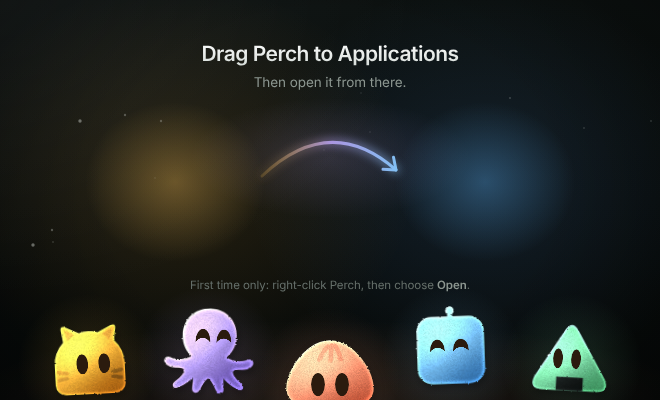
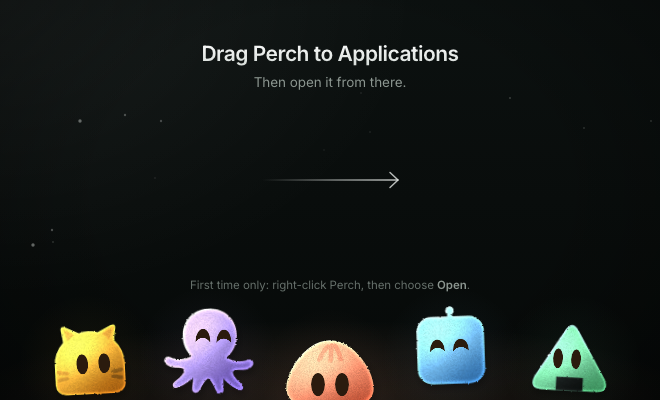
Install window: thin straight arrow, no halos, wait for Finder to save the layout

Changed region(s): [[0.1212, 0.27, 0.8788, 0.66]]

diff --git a/ui/install/background.html b/ui/install/background.html
@@ -3,7 +3,7 @@
 <title>Perch disk image</title>
 <!-- The picture behind the icons in the Perch.dmg window (660 x 400 points). Finder puts the Perch icon on the left and the
      Applications folder on the right (scripts/make-dmg.sh places them at 175,180 and 485,180); this draws everything else:
-     the words, the light behind both icons, an arrow that arcs from one to the other, and the
+     the words, the light behind both icons, a thin line with a head between them, and the
      crowd of characters, the real ones (app.js draws them, coat and eyes), peeking up from the bottom edge.
      The design page shows it in a Finder window; scripts/render-dmg-background.mjs renders it to Resources/dmg/background.png and @2x. -->
 <link rel="stylesheet" href="../dist/ui.css">
@@ -11,15 +11,10 @@
 @font-face { font-family: Inter; font-weight: 100 900; src: url(../dist/fonts/inter-latin-wght-normal.woff2) format('woff2'); }
 html, body { margin: 0; width: 660px; height: 400px; overflow: hidden; }
 body { position: relative; font-family: Inter, -apple-system, system-ui, sans-serif; font-feature-settings: "cv11", "ss03"; -webkit-font-smoothing: antialiased; color: #EDF1EE; }
-/* the night, and the light in it: a pool of each icon's colour, a trail of both between them, a warm horizon under the crowd */
+/* the night: a soft light from the top left and a faint warm horizon under the crowd */
 #bg { position: absolute; inset: 0; background:
   radial-gradient(ellipse 560px 420px at 50% 46%, rgba(0,0,0,0) 40%, rgba(0,0,0,.55) 100%),
   radial-gradient(ellipse 420px 300px at 0% 0%, rgba(255,255,255,.055), rgba(255,255,255,0) 100%),
-  radial-gradient(ellipse 90px 80px at 175px 182px, rgba(255,198,90,.30), rgba(255,198,90,0) 100%),
-  radial-gradient(ellipse 240px 200px at 175px 182px, rgba(245,170,50,.13), rgba(245,170,50,0) 100%),
-  radial-gradient(ellipse 90px 80px at 485px 182px, rgba(96,186,255,.30), rgba(96,186,255,0) 100%),
-  radial-gradient(ellipse 240px 200px at 485px 182px, rgba(90,160,255,.13), rgba(90,160,255,0) 100%),
-  radial-gradient(ellipse 140px 60px at 330px 158px, rgba(185,162,245,.16), rgba(185,162,245,0) 100%),
   radial-gradient(ellipse 360px 80px at 50% 100%, rgba(255,170,130,.14), rgba(255,170,130,0) 100%),
   linear-gradient(#0C1110, #060908); }
 #scene { display: none; }
@@ -38,13 +33,11 @@ svg.fx { position: absolute; left: 0; top: 0; overflow: visible; }
 <div id="scene"></div>
 <svg class="fx" width="660" height="400" viewBox="0 0 660 400" fill="none" aria-hidden="true">
   <defs>
-    <linearGradient id="trail" x1="258" x2="404" gradientUnits="userSpaceOnUse"><stop offset="0" stop-color="#F5B83D" stop-opacity=".15"/><stop offset=".5" stop-color="#B9A2F5" stop-opacity=".85"/><stop offset="1" stop-color="#7DC4F5"/></linearGradient>
-    <filter id="blur" x="-30%" y="-80%" width="160%" height="260%"><feGaussianBlur stdDeviation="5"/></filter>
+    <linearGradient id="trail" x1="262" x2="398" gradientUnits="userSpaceOnUse"><stop offset="0" stop-color="#EDF1EE" stop-opacity="0"/><stop offset=".55" stop-color="#EDF1EE" stop-opacity=".5"/><stop offset="1" stop-color="#EDF1EE" stop-opacity=".78"/></linearGradient>
   </defs>
   <g id="sparks" fill="#EDF1EE"></g>
-  <g stroke="url(#trail)" stroke-width="3" stroke-linecap="round" stroke-linejoin="round">
-    <g filter="url(#blur)" stroke-width="6" opacity=".7"><path d="M262 176Q330 112 396 170"/></g>
-    <path d="M262 176Q330 112 396 170"/><path d="M383 169.3L396 170L393.5 157.2"/>
+  <g stroke="url(#trail)" stroke-width="1.5" stroke-linecap="round" stroke-linejoin="round">
+    <path d="M262 180H398"/><path d="M390 172.5L398 180L390 187.5"/>
   </g>
 </svg>
 <h1>Drag Perch to Applications</h1>
@@ -59,7 +52,7 @@ var CREW = [['ears', '#F5B83D', 88, 318, 84, 'awake', [5, -3], -3], ['octo', '#B
             ['tile', '#7DC4F5', 452, 306, 90, 'happy', [-4, -4], -2], ['peak', '#7FD9A8', 572, 318, 84, 'awake', [-5, -3], 3]];
 document.getElementById('crew').innerHTML = CREW.map(function (c) {
   var x = c[2], y = c[3], z = c[4];
-  return '<div class="pal" style="left:' + x + 'px;top:' + (y + z * .55) + 'px;background:radial-gradient(circle,' + c[1] + '28' + ' 0%,' + c[1] + '00 66%)"></div>' +
+  return '<div class="pal" style="left:' + x + 'px;top:' + (y + z * .55) + 'px;background:radial-gradient(circle,' + c[1] + '0F' + ' 0%,' + c[1] + '00 66%)"></div>' +
     '<div class="cr-slot" style="left:' + (x - z / 2) + 'px;top:' + y + 'px;--cr:' + c[1] + ';--gx:' + c[6][0] + 'px;--gy:' + c[6][1] + 'px;transform:rotate(' + c[7] + 'deg)">' + window.perchDev.character(c[0], z, c[5]) + '</div>';
 }).join('');
 /* a few specks of light, always the same ones */

diff --git a/ui/design.html b/ui/design.html
@@ -446,7 +446,7 @@ h2{font:600 15px/1.2 Inter,sans-serif;letter-spacing:-.01em;margin:0 0 4px}
     ]],
     ['Installing', [
       ['Disk image', 'Open Perch.dmg: a window with Perch on the left, an arrow and Applications on the right, and the characters peeking up from the bottom edge.', function () { d.show('idle'); disk(false); }],
-      ['Disk image: drag', 'The drag it asks for: Perch is picked up, taken across the arrow, and Applications lights up to take it. Finder\u2019s own icons, window and highlight are stand-ins here; the picture behind them is the real one.', function () { d.show('idle'); disk(true); }]
+      ['Disk image: drag', 'The drag it asks for: Perch is picked up, taken along the arrow, and Applications lights up to take it. Finder\u2019s own icons, window and highlight are stand-ins here; the picture behind them is the real one.', function () { d.show('idle'); disk(true); }]
     ]],
     ['Onboarding', [
       ['Hello', 'Perch introduces itself: it lands on the notch, wakes, says hi, and shows two sessions as rows of the list, one finishing and one needing your OK. Only a picture: nothing there to hover or press.', function () { d.onboarding(0); }],
@@ -489,7 +489,7 @@ h2{font:600 15px/1.2 Inter,sans-serif;letter-spacing:-.01em;margin:0 0 4px}
     now.textContent = 'The disk image window';
     at(900, function () { put(cur, [P[0] + 20, P[1] + 16], 1000); });
     at(2100, function () { now.textContent = 'Pick Perch up'; ghost.style.display = ''; put(ghost, P); icP.classList.add('lift'); });
-    at(2300, function () { now.textContent = 'Drag it along the arrow, onto Applications'; put(cur, [330 + 20, 150 + 16], 800, 'cubic-bezier(.3,.6,.5,1)'); put(ghost, [330, 150], 800, 'cubic-bezier(.3,.6,.5,1)'); });
+    at(2300, function () { now.textContent = 'Drag it along the arrow, onto Applications'; put(cur, [330 + 20, 180 + 16], 800, 'cubic-bezier(.3,.6,.5,1)'); put(ghost, [330, 180], 800, 'cubic-bezier(.3,.6,.5,1)'); });
     at(3100, function () { put(cur, [A[0] + 20, A[1] + 16], 800, 'cubic-bezier(.5,0,.6,1)'); put(ghost, A, 800, 'cubic-bezier(.5,0,.6,1)'); });
     at(3800, function () { icA.classList.add('hl'); });
     at(4600, function () { now.textContent = 'Let go: Applications takes it'; ghost.classList.add('in'); icA.classList.remove('hl'); icP.classList.remove('lift'); cur.style.opacity = '0'; });
